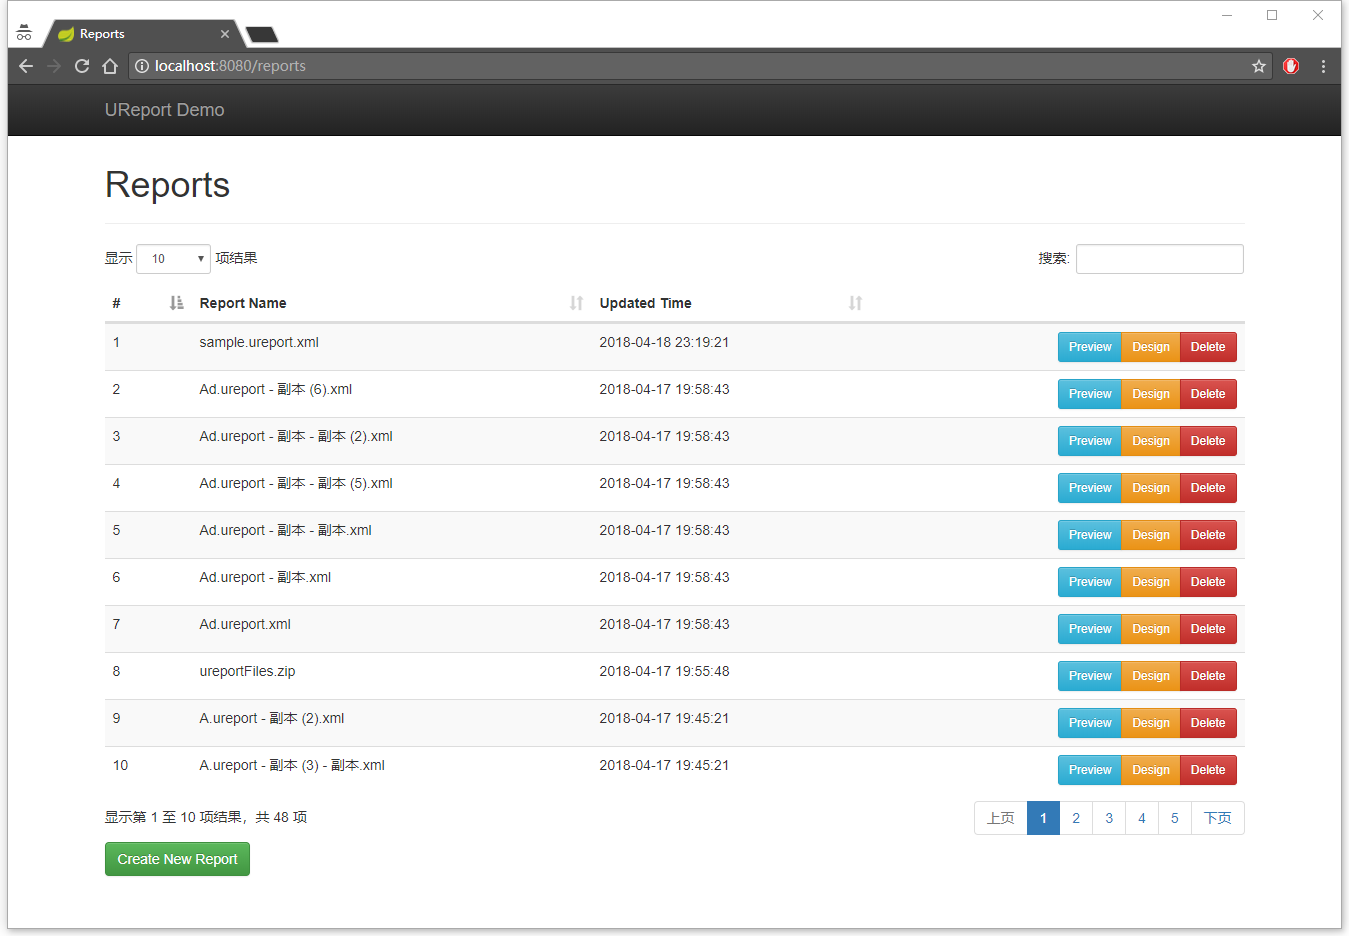
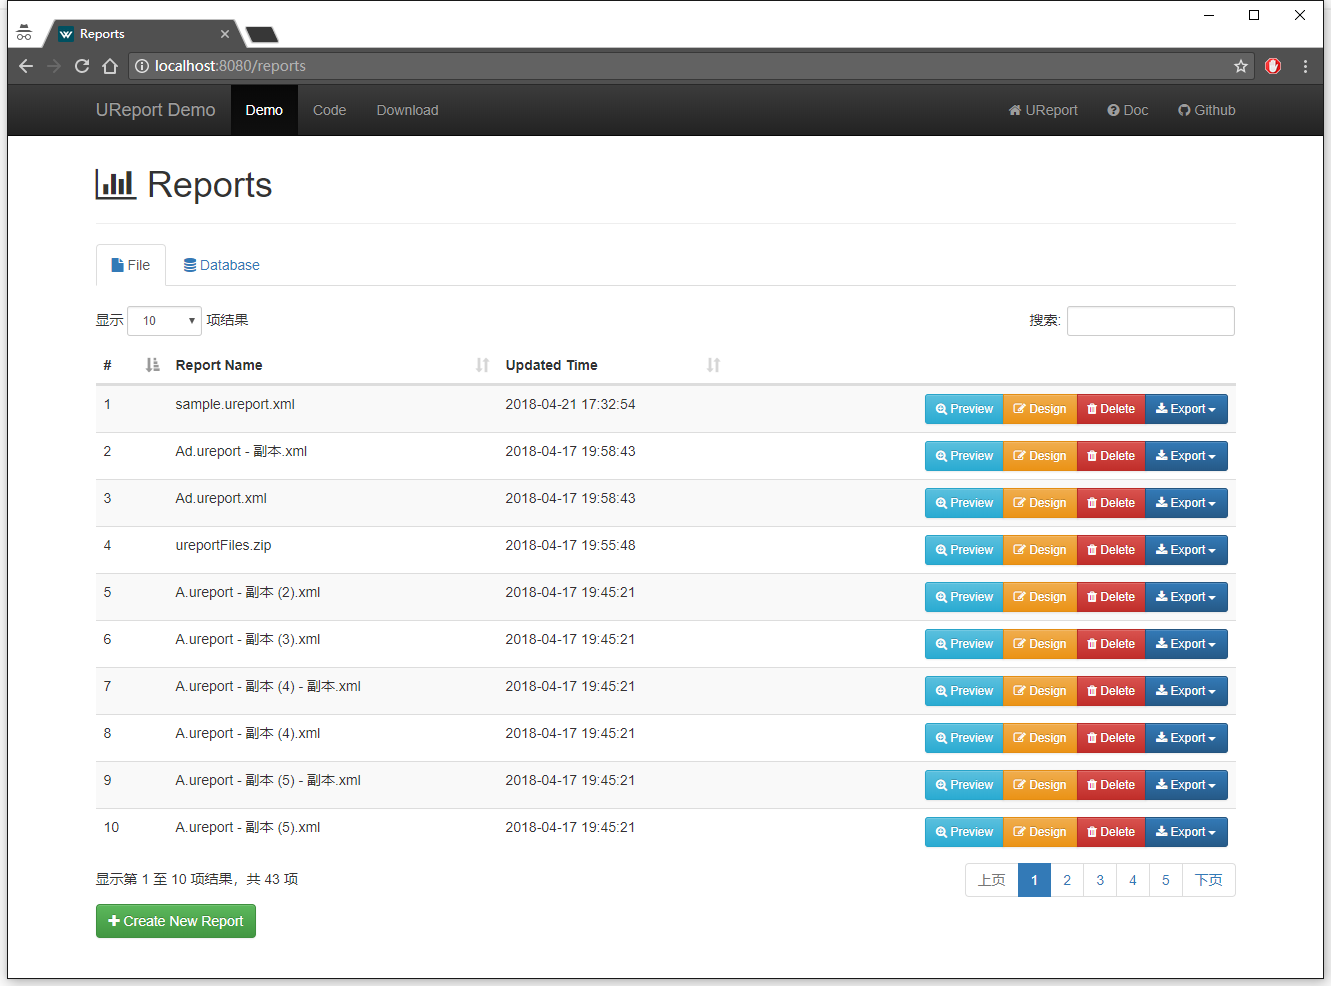
add some link.

diff --git a/src/main/resources/templates/reports.html b/src/main/resources/templates/reports.html
@@ -18,8 +18,23 @@
 <nav class="navbar navbar-inverse navbar-fixed-top">
   <div class="container">
     <div class="navbar-header">
-      <a class="navbar-brand" th:href="@{/}">UReport Demo</a>
+      <a class="navbar-brand" href="#" th:href="@{/}">UReport Demo</a>
     </div>
+
+    <ul class="nav navbar-nav">
+      <li class="active"><a href="#" th:href="@{/}">Demo</a></li>
+      <li><a href="https://github.com/yingw/ureport-demo" target="_blank">Code</a></li>
+      <li><a href="https://codeload.github.com/yingw/ureport-demo/zip/master" target="_blank">Download</a></li>
+    </ul>
+
+    <div id="navbar" class="navbar-collapse collapse">
+      <ul class="nav navbar-nav navbar-right" >
+        <li><a href="http://www.bstek.com/products/ureport" target="_blank"><i class="fa fa-home"></i> UReport</a></li>
+        <li><a href="http://wiki.bsdn.org/pages/viewpage.action?pageId=76448364" target="_blank"><i class="fa fa-question-circle"></i> Doc</a></li>
+        <li><a href="https://github.com/youseries/ureport" target="_blank"><i class="fa fa-github"></i> Github</a></li>
+      </ul>
+    </div>
+
   </div>
 </nav>
 
